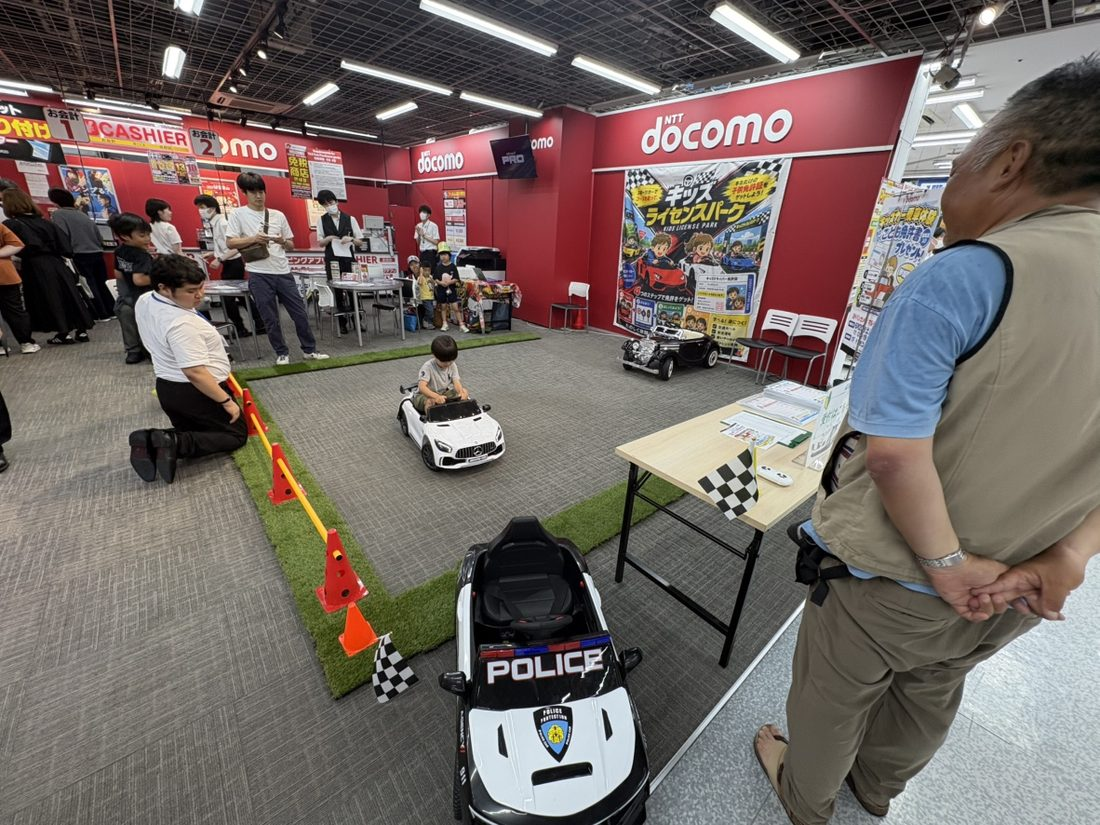
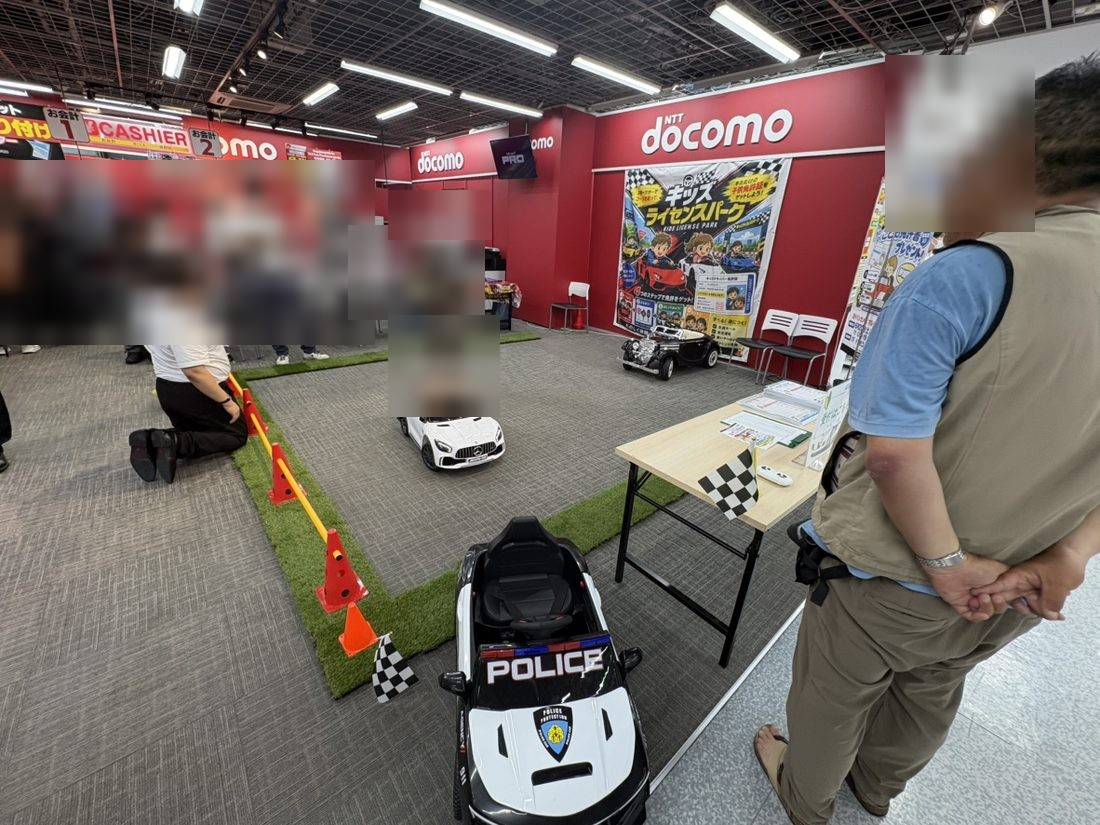
HP改修: フォント角丸統一・トップにクイックナビ・できることに写真・数字の位置調整・単体レンタル明記・開催写真の顔ぼかし
- 本文フォントをZen Maru Gothic(角丸)に統一(index/詳細ページ)
- ヒーロー下にクイックナビ(KLP/ぷにラボ/シールデコ/エア遊具)を追加
- できること3本柱に実写を追加、モバイルのヒーローを圧縮
- カウンター(5分/7車種/20分)を体験コンテンツカードの下へ移動
- 会場を広げるオプションに『単体レンタルOK』を明記
- 開催写真(klp-event1/2)の来場者・スタッフの顔をぼかし処理

Claude-Session: https://claude.ai/code/session_012CAGZHqWDYhrYngNq3AUxT

Changed region(s): [[0.0, 0.1818, 0.4636, 0.5152], [0.8036, 0.0606, 0.9582, 0.303], [0.8964, 0.2424, 0.9582, 0.303]]

diff --git a/site/index.html b/site/index.html
@@ -21,7 +21,7 @@
 <meta name="twitter:image" content="https://nextvision.fun/images/klp.jpg">
 <link rel="preconnect" href="https://fonts.googleapis.com">
 <link rel="preconnect" href="https://fonts.gstatic.com" crossorigin>
-<link href="https://fonts.googleapis.com/css2?family=Zen+Maru+Gothic:wght@500;700;900&family=Zen+Kaku+Gothic+New:wght@400;500;700&family=Baloo+2:wght@600;700;800&family=Roboto+Mono:wght@500;700&display=swap" rel="stylesheet">
+<link href="https://fonts.googleapis.com/css2?family=Zen+Maru+Gothic:wght@400;500;700;900&family=Baloo+2:wght@600;700;800&family=Roboto+Mono:wght@500;700&display=swap" rel="stylesheet">
 <style>
 :root{
   --paper:#FFFBEF; --cream:#FFF3E0; --card:#FFFFFF;
@@ -31,7 +31,7 @@
   --line:#EFE2CF; --shadow:34 87 110;
   --display:"Zen Maru Gothic","Hiragino Maru Gothic ProN","Yu Gothic",sans-serif;
   --round:"Baloo 2","Zen Maru Gothic",sans-serif;
-  --body:"Zen Kaku Gothic New","Hiragino Sans","Yu Gothic",sans-serif;
+  --body:"Zen Maru Gothic","Hiragino Maru Gothic ProN","Yu Gothic",sans-serif;
   --mono:"Roboto Mono",ui-monospace,monospace;
   --pad:clamp(18px,4.5vw,56px); --r:20px;
 }
@@ -51,7 +51,7 @@
 }
 *{box-sizing:border-box}
 html{scroll-behavior:smooth}
-body{margin:0;background:var(--paper);color:var(--ink);font-family:var(--body);
+body{margin:0;background:var(--paper);color:var(--ink);font-family:var(--body);font-weight:500;
   line-height:1.85;font-size:16px;-webkit-font-smoothing:antialiased;overflow-x:hidden}
 img,svg{max-width:100%;display:block}
 a{color:inherit}
@@ -152,6 +152,24 @@ nav.main a:hover{color:var(--blue);border-color:var(--orange)}
 .spark{position:absolute;z-index:3;animation:tw 2.4s ease-in-out infinite}
 @keyframes tw{0%,100%{transform:scale(1);opacity:.9}50%{transform:scale(.6);opacity:.4}}
 
+/* ===== hero quicknav ===== */
+.quicknav{display:flex;gap:clamp(10px,2.5vw,22px);justify-content:center;flex-wrap:wrap;
+  margin:clamp(20px,3.2vw,34px) auto 4px;position:relative;z-index:2}
+.qn{display:flex;flex-direction:column;align-items:center;gap:9px;text-decoration:none;
+  width:clamp(74px,20vw,112px);transition:transform .16s}
+.qn:hover{transform:translateY(-4px)}
+.qn img{width:clamp(66px,17vw,94px);height:clamp(66px,17vw,94px);object-fit:cover;border-radius:50%;
+  border:3px solid #fff;box-shadow:0 12px 22px -12px rgb(var(--shadow)/.55);background:var(--cream)}
+.qn span{font-family:var(--display);font-weight:700;font-size:clamp(11px,2.6vw,13px);
+  color:var(--ink);text-align:center;line-height:1.3}
+/* ===== hero mobile condense ===== */
+@media(max-width:920px){
+  .hero{padding-top:clamp(14px,4vw,26px)}
+  .mascot-stage{width:min(72%,290px)}
+  .hero .lead{font-size:14.5px;margin-top:13px}
+  .hero-cta{margin-top:20px}
+}
+
 /* ===== wave ===== */
 .wave{display:block;width:100%;height:auto;margin-bottom:-2px}
 .wave.flip{transform:scaleY(-1);margin-top:-2px;margin-bottom:0}
@@ -181,11 +199,16 @@ h2{font-size:clamp(24px,3.4vw,36px)}
 /* ===== pillars ===== */
 .pillars{display:grid;grid-template-columns:repeat(3,1fr);gap:18px}
 @media(max-width:820px){.pillars{grid-template-columns:1fr}}
-.pillar{background:var(--card);border:2px solid var(--line);border-radius:var(--r);padding:26px 24px;text-align:center;
+.pillar{background:var(--card);border:2px solid var(--line);border-radius:var(--r);text-align:center;overflow:hidden;
   transition:transform .2s,box-shadow .2s}
 .pillar:hover{transform:translateY(-5px);box-shadow:0 20px 34px -22px rgb(var(--shadow)/.5)}
-.pillar .badge{width:64px;height:64px;border-radius:20px;display:grid;place-items:center;margin:0 auto 15px;color:#fff}
-.pillar .badge svg{width:34px;height:34px}
+.pillar-photo{position:relative}
+.pillar-photo img{width:100%;aspect-ratio:16/10;object-fit:cover;display:block;background:var(--cream)}
+.pillar .badge{width:56px;height:56px;border-radius:18px;display:grid;place-items:center;color:#fff;
+  position:absolute;left:50%;bottom:-28px;transform:translateX(-50%);border:3px solid var(--card);
+  box-shadow:0 10px 20px -10px rgb(var(--shadow)/.5)}
+.pillar .badge svg{width:30px;height:30px}
+.pillar-body{padding:40px 24px 26px}
 .pillar h3{font-size:19px;margin-bottom:9px}
 .pillar p{font-size:14px;color:var(--ink-soft)}
 .pillar .no{font-family:var(--round);font-size:12px;color:var(--sub)}
@@ -459,6 +482,12 @@ footer{background:var(--navy);color:rgb(255 255 255 / .7);padding:34px 0 30px;fo
       </div>
     </div>
   </div>
+  <div class="wrap"><nav class="quicknav" aria-label="コンテンツへのショートカット">
+    <a href="#contents" class="qn"><img src="images/klp.jpg" alt=""><span>キッズ<br>ライセンスパーク</span></a>
+    <a href="#contents" class="qn"><img src="images/squeeze.jpg" alt=""><span>ぷにラボ</span></a>
+    <a href="#contents" class="qn"><img src="images/seal.jpg" alt=""><span>シールデコ</span></a>
+    <a href="#options" class="qn"><img src="images/airizm.jpg" alt=""><span>エア遊具</span></a>
+  </nav></div>
   <svg class="wave" viewBox="0 0 1440 70" preserveAspectRatio="none" aria-hidden="true"><path fill="var(--cream)" d="M0,40 C240,75 480,75 720,45 C960,15 1200,15 1440,45 L1440,70 L0,70 Z"/></svg>
 </div>
 
@@ -472,19 +501,19 @@ footer{background:var(--navy);color:rgb(255 255 255 / .7);padding:34px 0 30px;fo
     </div>
     <div class="pillars">
       <div class="pillar reveal">
-        <div class="badge" style="background:var(--blue)"><svg viewBox="0 0 24 24" fill="none" stroke="#fff" stroke-width="2" stroke-linecap="round" stroke-linejoin="round"><path d="M12 19l7-7 3 3-7 7-3-3z"/><path d="M18 13l-1.5-7.5L2 2l3.5 14.5L13 18z"/><path d="M2 2l7.586 7.586"/><circle cx="11" cy="11" r="2"/></svg></div>
-        <div class="no">01</div><h3>工作ワークショップ</h3>
-        <p>ぷにラボ（スクイーズ）・シールデコなど、手を動かして「できた！」を持ち帰れる制作体験。省スペースで着座、待ち時間対策にも。</p>
+        <div class="pillar-photo"><img src="images/squeeze.jpg" alt="工作ワークショップの様子" loading="lazy"><span class="badge" style="background:var(--blue)"><svg viewBox="0 0 24 24" fill="none" stroke="#fff" stroke-width="2" stroke-linecap="round" stroke-linejoin="round"><path d="M12 19l7-7 3 3-7 7-3-3z"/><path d="M18 13l-1.5-7.5L2 2l3.5 14.5L13 18z"/><path d="M2 2l7.586 7.586"/><circle cx="11" cy="11" r="2"/></svg></span></div>
+        <div class="pillar-body"><div class="no">01</div><h3>工作ワークショップ</h3>
+        <p>ぷにラボ（スクイーズ）・シールデコなど、手を動かして「できた！」を持ち帰れる制作体験。省スペースで着座、待ち時間対策にも。</p></div>
       </div>
       <div class="pillar reveal">
-        <div class="badge" style="background:var(--orange)"><svg viewBox="0 0 24 24" fill="none" stroke="#fff" stroke-width="2" stroke-linecap="round" stroke-linejoin="round"><path d="M5 17h14M5 17a2 2 0 0 1-2-2v-3l2-5a2 2 0 0 1 2-1.4h8A2 2 0 0 1 19 7l2 5v3a2 2 0 0 1-2 2"/><circle cx="7.5" cy="17.5" r="1.6"/><circle cx="16.5" cy="17.5" r="1.6"/></svg></div>
-        <div class="no">02</div><h3>キッズライセンスパーク</h3>
-        <p>EVカーの運転体験＋顔写真入りの「こども免許証」をその場で発行。写真が撮れて持ち帰れる、来店の動機になる看板コンテンツ。</p>
+        <div class="pillar-photo"><img src="images/klp.jpg" alt="キッズライセンスパークの様子" loading="lazy"><span class="badge" style="background:var(--orange)"><svg viewBox="0 0 24 24" fill="none" stroke="#fff" stroke-width="2" stroke-linecap="round" stroke-linejoin="round"><path d="M5 17h14M5 17a2 2 0 0 1-2-2v-3l2-5a2 2 0 0 1 2-1.4h8A2 2 0 0 1 19 7l2 5v3a2 2 0 0 1-2 2"/><circle cx="7.5" cy="17.5" r="1.6"/><circle cx="16.5" cy="17.5" r="1.6"/></svg></span></div>
+        <div class="pillar-body"><div class="no">02</div><h3>キッズライセンスパーク</h3>
+        <p>EVカーの運転体験＋顔写真入りの「こども免許証」をその場で発行。写真が撮れて持ち帰れる、来店の動機になる看板コンテンツ。</p></div>
       </div>
       <div class="pillar reveal">
-        <div class="badge" style="background:var(--coral)"><svg viewBox="0 0 24 24" fill="none" stroke="#fff" stroke-width="2" stroke-linecap="round" stroke-linejoin="round"><path d="M16 11a4 4 0 1 0-8 0"/><circle cx="12" cy="7" r="0"/><path d="M3 21v-1a5 5 0 0 1 5-5h8a5 5 0 0 1 5 5v1"/><circle cx="12" cy="6" r="3"/></svg></div>
-        <div class="no">03</div><h3>設営〜運営代行</h3>
-        <p>設営・装飾から受付・安全管理・撤収・原状回復まで。店舗スタッフ様は接客・商談に専念。機材レンタルだけでも対応します。</p>
+        <div class="pillar-photo"><img src="images/klp-event1.jpg" alt="設営・運営代行の様子" loading="lazy"><span class="badge" style="background:var(--coral)"><svg viewBox="0 0 24 24" fill="none" stroke="#fff" stroke-width="2" stroke-linecap="round" stroke-linejoin="round"><path d="M16 11a4 4 0 1 0-8 0"/><circle cx="12" cy="7" r="0"/><path d="M3 21v-1a5 5 0 0 1 5-5h8a5 5 0 0 1 5 5v1"/><circle cx="12" cy="6" r="3"/></svg></span></div>
+        <div class="pillar-body"><div class="no">03</div><h3>設営〜運営代行</h3>
+        <p>設営・装飾から受付・安全管理・撤収・原状回復まで。店舗スタッフ様は接客・商談に専念。機材レンタルだけでも対応します。</p></div>
       </div>
     </div>
   </div>
@@ -493,11 +522,6 @@ footer{background:var(--navy);color:rgb(255 255 255 / .7);padding:34px 0 30px;fo
 <!-- ===== 主役の体験コンテンツ ===== -->
 <section id="contents">
   <div class="wrap">
-    <div class="counters reveal">
-      <div class="cnt"><b><span class="num" data-to="5">0</span><small>分で</small></b><span>こども免許証を<strong>その場で発行・お渡し</strong></span></div>
-      <div class="cnt"><b><span class="num" data-to="7">0</span><small>車種</small></b><span>本格<strong>EVカー</strong>で、憧れの運転体験</span></div>
-      <div class="cnt"><b><span class="num" data-to="20">0</span><small>分</small></b><span>着座ワークショップで<strong>商談タイム</strong>を確保</span></div>
-    </div>
     <div class="sec-head reveal">
       <span class="kick">CONTENTS</span>
       <h2>主役の体験コンテンツ</h2>
@@ -537,6 +561,11 @@ footer{background:var(--navy);color:rgb(255 255 255 / .7);padding:34px 0 30px;fo
           <a class="more" href="seal.html">詳しく見る <span aria-hidden="true">→</span></a>
         </div>
       </article>
+    </div>
+    <div class="counters reveal" style="margin-top:clamp(30px,4.5vw,48px)">
+      <div class="cnt"><b><span class="num" data-to="5">0</span><small>分で</small></b><span>こども免許証を<strong>その場で発行・お渡し</strong></span></div>
+      <div class="cnt"><b><span class="num" data-to="7">0</span><small>車種</small></b><span>本格<strong>EVカー</strong>で、憧れの運転体験</span></div>
+      <div class="cnt"><b><span class="num" data-to="20">0</span><small>分</small></b><span>着座ワークショップで<strong>商談タイム</strong>を確保</span></div>
     </div>
   </div>
 </section>
@@ -658,7 +687,7 @@ footer{background:var(--navy);color:rgb(255 255 255 / .7);padding:34px 0 30px;fo
     <div class="sec-head reveal">
       <span class="kick">OPTION</span>
       <h2>会場を広げるオプション</h2>
-      <p>主役の体験コンテンツに、エア遊具・ゲームをプラス。会場の空きスペースを、そのまま賑わいに変えられます。</p>
+      <p>主役の体験コンテンツにプラスするのはもちろん、<b style="color:var(--coral)">エア遊具・ゲームだけの単体レンタルもOK</b>。会場の空きスペースを、そのまま賑わいに変えられます。</p>
     </div>
     <div class="opt-grid reveal">
       <div class="opt"><div class="othumb"><img src="images/airizm-tramp.jpg" alt="エアリズム トランポリン" loading="lazy"></div><div class="ob"><h4>エアリズム トランポリン</h4><span class="op">¥80,000<span class="os">／日</span></span></div></div>
@@ -670,6 +699,8 @@ footer{background:var(--navy);color:rgb(255 255 255 / .7);padding:34px 0 30px;fo
       <div class="opt"><div class="othumb"><img src="images/placeholder-game.svg" alt="ウエスタンフープ" loading="lazy"></div><div class="ob"><h4>ウエスタンフープ</h4><span class="op">お見積り</span></div></div>
       <div class="opt"><div class="othumb"><img src="images/placeholder-game.svg" alt="チックタックトゥ" loading="lazy"></div><div class="ob"><h4>チックタックトゥ</h4><span class="op">お見積り</span></div></div>
     </div>
+    <div class="callout reveal" style="margin-top:20px"><svg viewBox="0 0 24 24" fill="none" stroke="currentColor" stroke-width="2" stroke-linecap="round" stroke-linejoin="round"><path d="M20 7h-3V5a2 2 0 0 0-2-2H9a2 2 0 0 0-2 2v2H4a1 1 0 0 0-1 1v11a2 2 0 0 0 2 2h14a2 2 0 0 0 2-2V8a1 1 0 0 0-1-1z"/><path d="M9 7V5h6v2"/></svg>
+      <div><b>単体レンタルもOK。</b>体験コンテンツとのセットはもちろん、<b>エア遊具・ゲームだけ</b>のレンタルにも対応します。会場の広さやご予算に合わせてお選びください。</div></div>
   </div>
 </section>
 

diff --git a/site/seal.html b/site/seal.html
@@ -1,4 +1,4 @@
-<!DOCTYPE html><html lang="ja"><head><meta charset="UTF-8"><meta name="viewport" content="width=device-width, initial-scale=1"><title>シールデコ ワークショップ｜シャカシャカシール｜NextVision</title><meta name="description" content="振ると中が揺れる『シャカシャカシール』を制作するワークショップ。はさみ不要で小さなお子様も安心。省スペース・着座20分で集客イベントに。"><meta name="theme-color" content="#3E9BD8"><link rel="canonical" href="https://nextvision.fun/seal.html"><link rel="preconnect" href="https://fonts.googleapis.com"><link rel="preconnect" href="https://fonts.gstatic.com" crossorigin><link href="https://fonts.googleapis.com/css2?family=Zen+Maru+Gothic:wght@500;700;900&family=Zen+Kaku+Gothic+New:wght@400;500;700&family=Baloo+2:wght@600;700;800&family=Roboto+Mono:wght@500;700&display=swap" rel="stylesheet"><style>
+<!DOCTYPE html><html lang="ja"><head><meta charset="UTF-8"><meta name="viewport" content="width=device-width, initial-scale=1"><title>シールデコ ワークショップ｜シャカシャカシール｜NextVision</title><meta name="description" content="振ると中が揺れる『シャカシャカシール』を制作するワークショップ。はさみ不要で小さなお子様も安心。省スペース・着座20分で集客イベントに。"><meta name="theme-color" content="#3E9BD8"><link rel="canonical" href="https://nextvision.fun/seal.html"><link rel="preconnect" href="https://fonts.googleapis.com"><link rel="preconnect" href="https://fonts.gstatic.com" crossorigin><link href="https://fonts.googleapis.com/css2?family=Zen+Maru+Gothic:wght@400;500;700;900&family=Baloo+2:wght@600;700;800&family=Roboto+Mono:wght@500;700&display=swap" rel="stylesheet"><style>
 :root{
   --paper:#FFFBEF; --cream:#FFF3E0; --card:#FFFFFF;
   --ink:#22384F; --ink-soft:#4E6274; --sub:#7E8A96;
@@ -7,7 +7,7 @@
   --line:#EFE2CF; --shadow:34 87 110;
   --display:"Zen Maru Gothic","Hiragino Maru Gothic ProN","Yu Gothic",sans-serif;
   --round:"Baloo 2","Zen Maru Gothic",sans-serif;
-  --body:"Zen Kaku Gothic New","Hiragino Sans","Yu Gothic",sans-serif;
+  --body:"Zen Maru Gothic","Hiragino Maru Gothic ProN","Yu Gothic",sans-serif;
   --mono:"Roboto Mono",ui-monospace,monospace;
   --pad:clamp(18px,4.5vw,56px); --r:20px;
 }
@@ -27,7 +27,7 @@
 }
 *{box-sizing:border-box}
 html{scroll-behavior:smooth}
-body{margin:0;background:var(--paper);color:var(--ink);font-family:var(--body);
+body{margin:0;background:var(--paper);color:var(--ink);font-family:var(--body);font-weight:500;
   line-height:1.85;font-size:16px;-webkit-font-smoothing:antialiased;overflow-x:hidden}
 img,svg{max-width:100%;display:block}
 a{color:inherit}
@@ -128,6 +128,24 @@ nav.main a:hover{color:var(--blue);border-color:var(--orange)}
 .spark{position:absolute;z-index:3;animation:tw 2.4s ease-in-out infinite}
 @keyframes tw{0%,100%{transform:scale(1);opacity:.9}50%{transform:scale(.6);opacity:.4}}
 
+/* ===== hero quicknav ===== */
+.quicknav{display:flex;gap:clamp(10px,2.5vw,22px);justify-content:center;flex-wrap:wrap;
+  margin:clamp(20px,3.2vw,34px) auto 4px;position:relative;z-index:2}
+.qn{display:flex;flex-direction:column;align-items:center;gap:9px;text-decoration:none;
+  width:clamp(74px,20vw,112px);transition:transform .16s}
+.qn:hover{transform:translateY(-4px)}
+.qn img{width:clamp(66px,17vw,94px);height:clamp(66px,17vw,94px);object-fit:cover;border-radius:50%;
+  border:3px solid #fff;box-shadow:0 12px 22px -12px rgb(var(--shadow)/.55);background:var(--cream)}
+.qn span{font-family:var(--display);font-weight:700;font-size:clamp(11px,2.6vw,13px);
+  color:var(--ink);text-align:center;line-height:1.3}
+/* ===== hero mobile condense ===== */
+@media(max-width:920px){
+  .hero{padding-top:clamp(14px,4vw,26px)}
+  .mascot-stage{width:min(72%,290px)}
+  .hero .lead{font-size:14.5px;margin-top:13px}
+  .hero-cta{margin-top:20px}
+}
+
 /* ===== wave ===== */
 .wave{display:block;width:100%;height:auto;margin-bottom:-2px}
 .wave.flip{transform:scaleY(-1);margin-top:-2px;margin-bottom:0}
@@ -157,11 +175,16 @@ h2{font-size:clamp(24px,3.4vw,36px)}
 /* ===== pillars ===== */
 .pillars{display:grid;grid-template-columns:repeat(3,1fr);gap:18px}
 @media(max-width:820px){.pillars{grid-template-columns:1fr}}
-.pillar{background:var(--card);border:2px solid var(--line);border-radius:var(--r);padding:26px 24px;text-align:center;
+.pillar{background:var(--card);border:2px solid var(--line);border-radius:var(--r);text-align:center;overflow:hidden;
   transition:transform .2s,box-shadow .2s}
 .pillar:hover{transform:translateY(-5px);box-shadow:0 20px 34px -22px rgb(var(--shadow)/.5)}
-.pillar .badge{width:64px;height:64px;border-radius:20px;display:grid;place-items:center;margin:0 auto 15px;color:#fff}
-.pillar .badge svg{width:34px;height:34px}
+.pillar-photo{position:relative}
+.pillar-photo img{width:100%;aspect-ratio:16/10;object-fit:cover;display:block;background:var(--cream)}
+.pillar .badge{width:56px;height:56px;border-radius:18px;display:grid;place-items:center;color:#fff;
+  position:absolute;left:50%;bottom:-28px;transform:translateX(-50%);border:3px solid var(--card);
+  box-shadow:0 10px 20px -10px rgb(var(--shadow)/.5)}
+.pillar .badge svg{width:30px;height:30px}
+.pillar-body{padding:40px 24px 26px}
 .pillar h3{font-size:19px;margin-bottom:9px}
 .pillar p{font-size:14px;color:var(--ink-soft)}
 .pillar .no{font-family:var(--round);font-size:12px;color:var(--sub)}

diff --git a/site/punilab.html b/site/punilab.html
@@ -1,4 +1,4 @@
-<!DOCTYPE html><html lang="ja"><head><meta charset="UTF-8"><meta name="viewport" content="width=device-width, initial-scale=1"><title>ぷにラボ｜スクイーズ工作ワークショップ｜NextVision</title><meta name="description" content="動物モールド（とら・ぞう・ペンギン）でぷにぷにスクイーズを制作。型のまま持ち帰り、おうちで完成。省スペース・着座20分で集客イベントに。"><meta name="theme-color" content="#3E9BD8"><link rel="canonical" href="https://nextvision.fun/punilab.html"><link rel="preconnect" href="https://fonts.googleapis.com"><link rel="preconnect" href="https://fonts.gstatic.com" crossorigin><link href="https://fonts.googleapis.com/css2?family=Zen+Maru+Gothic:wght@500;700;900&family=Zen+Kaku+Gothic+New:wght@400;500;700&family=Baloo+2:wght@600;700;800&family=Roboto+Mono:wght@500;700&display=swap" rel="stylesheet"><style>
+<!DOCTYPE html><html lang="ja"><head><meta charset="UTF-8"><meta name="viewport" content="width=device-width, initial-scale=1"><title>ぷにラボ｜スクイーズ工作ワークショップ｜NextVision</title><meta name="description" content="動物モールド（とら・ぞう・ペンギン）でぷにぷにスクイーズを制作。型のまま持ち帰り、おうちで完成。省スペース・着座20分で集客イベントに。"><meta name="theme-color" content="#3E9BD8"><link rel="canonical" href="https://nextvision.fun/punilab.html"><link rel="preconnect" href="https://fonts.googleapis.com"><link rel="preconnect" href="https://fonts.gstatic.com" crossorigin><link href="https://fonts.googleapis.com/css2?family=Zen+Maru+Gothic:wght@400;500;700;900&family=Baloo+2:wght@600;700;800&family=Roboto+Mono:wght@500;700&display=swap" rel="stylesheet"><style>
 :root{
   --paper:#FFFBEF; --cream:#FFF3E0; --card:#FFFFFF;
   --ink:#22384F; --ink-soft:#4E6274; --sub:#7E8A96;
@@ -7,7 +7,7 @@
   --line:#EFE2CF; --shadow:34 87 110;
   --display:"Zen Maru Gothic","Hiragino Maru Gothic ProN","Yu Gothic",sans-serif;
   --round:"Baloo 2","Zen Maru Gothic",sans-serif;
-  --body:"Zen Kaku Gothic New","Hiragino Sans","Yu Gothic",sans-serif;
+  --body:"Zen Maru Gothic","Hiragino Maru Gothic ProN","Yu Gothic",sans-serif;
   --mono:"Roboto Mono",ui-monospace,monospace;
   --pad:clamp(18px,4.5vw,56px); --r:20px;
 }
@@ -27,7 +27,7 @@
 }
 *{box-sizing:border-box}
 html{scroll-behavior:smooth}
-body{margin:0;background:var(--paper);color:var(--ink);font-family:var(--body);
+body{margin:0;background:var(--paper);color:var(--ink);font-family:var(--body);font-weight:500;
   line-height:1.85;font-size:16px;-webkit-font-smoothing:antialiased;overflow-x:hidden}
 img,svg{max-width:100%;display:block}
 a{color:inherit}
@@ -128,6 +128,24 @@ nav.main a:hover{color:var(--blue);border-color:var(--orange)}
 .spark{position:absolute;z-index:3;animation:tw 2.4s ease-in-out infinite}
 @keyframes tw{0%,100%{transform:scale(1);opacity:.9}50%{transform:scale(.6);opacity:.4}}
 
+/* ===== hero quicknav ===== */
+.quicknav{display:flex;gap:clamp(10px,2.5vw,22px);justify-content:center;flex-wrap:wrap;
+  margin:clamp(20px,3.2vw,34px) auto 4px;position:relative;z-index:2}
+.qn{display:flex;flex-direction:column;align-items:center;gap:9px;text-decoration:none;
+  width:clamp(74px,20vw,112px);transition:transform .16s}
+.qn:hover{transform:translateY(-4px)}
+.qn img{width:clamp(66px,17vw,94px);height:clamp(66px,17vw,94px);object-fit:cover;border-radius:50%;
+  border:3px solid #fff;box-shadow:0 12px 22px -12px rgb(var(--shadow)/.55);background:var(--cream)}
+.qn span{font-family:var(--display);font-weight:700;font-size:clamp(11px,2.6vw,13px);
+  color:var(--ink);text-align:center;line-height:1.3}
+/* ===== hero mobile condense ===== */
+@media(max-width:920px){
+  .hero{padding-top:clamp(14px,4vw,26px)}
+  .mascot-stage{width:min(72%,290px)}
+  .hero .lead{font-size:14.5px;margin-top:13px}
+  .hero-cta{margin-top:20px}
+}
+
 /* ===== wave ===== */
 .wave{display:block;width:100%;height:auto;margin-bottom:-2px}
 .wave.flip{transform:scaleY(-1);margin-top:-2px;margin-bottom:0}
@@ -157,11 +175,16 @@ h2{font-size:clamp(24px,3.4vw,36px)}
 /* ===== pillars ===== */
 .pillars{display:grid;grid-template-columns:repeat(3,1fr);gap:18px}
 @media(max-width:820px){.pillars{grid-template-columns:1fr}}
-.pillar{background:var(--card);border:2px solid var(--line);border-radius:var(--r);padding:26px 24px;text-align:center;
+.pillar{background:var(--card);border:2px solid var(--line);border-radius:var(--r);text-align:center;overflow:hidden;
   transition:transform .2s,box-shadow .2s}
 .pillar:hover{transform:translateY(-5px);box-shadow:0 20px 34px -22px rgb(var(--shadow)/.5)}
-.pillar .badge{width:64px;height:64px;border-radius:20px;display:grid;place-items:center;margin:0 auto 15px;color:#fff}
-.pillar .badge svg{width:34px;height:34px}
+.pillar-photo{position:relative}
+.pillar-photo img{width:100%;aspect-ratio:16/10;object-fit:cover;display:block;background:var(--cream)}
+.pillar .badge{width:56px;height:56px;border-radius:18px;display:grid;place-items:center;color:#fff;
+  position:absolute;left:50%;bottom:-28px;transform:translateX(-50%);border:3px solid var(--card);
+  box-shadow:0 10px 20px -10px rgb(var(--shadow)/.5)}
+.pillar .badge svg{width:30px;height:30px}
+.pillar-body{padding:40px 24px 26px}
 .pillar h3{font-size:19px;margin-bottom:9px}
 .pillar p{font-size:14px;color:var(--ink-soft)}
 .pillar .no{font-family:var(--round);font-size:12px;color:var(--sub)}

diff --git a/site/klp.html b/site/klp.html
@@ -1,4 +1,4 @@
-<!DOCTYPE html><html lang="ja"><head><meta charset="UTF-8"><meta name="viewport" content="width=device-width, initial-scale=1"><title>キッズライセンスパーク｜こども免許証がもらえる運転体験｜NextVision</title><meta name="description" content="EVカーの運転体験と、顔写真入り『こども免許証』をその場で発行。商業施設・店舗の集客イベントに。設営〜運営代行まで対応。"><meta name="theme-color" content="#3E9BD8"><link rel="canonical" href="https://nextvision.fun/klp.html"><link rel="preconnect" href="https://fonts.googleapis.com"><link rel="preconnect" href="https://fonts.gstatic.com" crossorigin><link href="https://fonts.googleapis.com/css2?family=Zen+Maru+Gothic:wght@500;700;900&family=Zen+Kaku+Gothic+New:wght@400;500;700&family=Baloo+2:wght@600;700;800&family=Roboto+Mono:wght@500;700&display=swap" rel="stylesheet"><style>
+<!DOCTYPE html><html lang="ja"><head><meta charset="UTF-8"><meta name="viewport" content="width=device-width, initial-scale=1"><title>キッズライセンスパーク｜こども免許証がもらえる運転体験｜NextVision</title><meta name="description" content="EVカーの運転体験と、顔写真入り『こども免許証』をその場で発行。商業施設・店舗の集客イベントに。設営〜運営代行まで対応。"><meta name="theme-color" content="#3E9BD8"><link rel="canonical" href="https://nextvision.fun/klp.html"><link rel="preconnect" href="https://fonts.googleapis.com"><link rel="preconnect" href="https://fonts.gstatic.com" crossorigin><link href="https://fonts.googleapis.com/css2?family=Zen+Maru+Gothic:wght@400;500;700;900&family=Baloo+2:wght@600;700;800&family=Roboto+Mono:wght@500;700&display=swap" rel="stylesheet"><style>
 :root{
   --paper:#FFFBEF; --cream:#FFF3E0; --card:#FFFFFF;
   --ink:#22384F; --ink-soft:#4E6274; --sub:#7E8A96;
@@ -7,7 +7,7 @@
   --line:#EFE2CF; --shadow:34 87 110;
   --display:"Zen Maru Gothic","Hiragino Maru Gothic ProN","Yu Gothic",sans-serif;
   --round:"Baloo 2","Zen Maru Gothic",sans-serif;
-  --body:"Zen Kaku Gothic New","Hiragino Sans","Yu Gothic",sans-serif;
+  --body:"Zen Maru Gothic","Hiragino Maru Gothic ProN","Yu Gothic",sans-serif;
   --mono:"Roboto Mono",ui-monospace,monospace;
   --pad:clamp(18px,4.5vw,56px); --r:20px;
 }
@@ -27,7 +27,7 @@
 }
 *{box-sizing:border-box}
 html{scroll-behavior:smooth}
-body{margin:0;background:var(--paper);color:var(--ink);font-family:var(--body);
+body{margin:0;background:var(--paper);color:var(--ink);font-family:var(--body);font-weight:500;
   line-height:1.85;font-size:16px;-webkit-font-smoothing:antialiased;overflow-x:hidden}
 img,svg{max-width:100%;display:block}
 a{color:inherit}
@@ -128,6 +128,24 @@ nav.main a:hover{color:var(--blue);border-color:var(--orange)}
 .spark{position:absolute;z-index:3;animation:tw 2.4s ease-in-out infinite}
 @keyframes tw{0%,100%{transform:scale(1);opacity:.9}50%{transform:scale(.6);opacity:.4}}
 
+/* ===== hero quicknav ===== */
+.quicknav{display:flex;gap:clamp(10px,2.5vw,22px);justify-content:center;flex-wrap:wrap;
+  margin:clamp(20px,3.2vw,34px) auto 4px;position:relative;z-index:2}
+.qn{display:flex;flex-direction:column;align-items:center;gap:9px;text-decoration:none;
+  width:clamp(74px,20vw,112px);transition:transform .16s}
+.qn:hover{transform:translateY(-4px)}
+.qn img{width:clamp(66px,17vw,94px);height:clamp(66px,17vw,94px);object-fit:cover;border-radius:50%;
+  border:3px solid #fff;box-shadow:0 12px 22px -12px rgb(var(--shadow)/.55);background:var(--cream)}
+.qn span{font-family:var(--display);font-weight:700;font-size:clamp(11px,2.6vw,13px);
+  color:var(--ink);text-align:center;line-height:1.3}
+/* ===== hero mobile condense ===== */
+@media(max-width:920px){
+  .hero{padding-top:clamp(14px,4vw,26px)}
+  .mascot-stage{width:min(72%,290px)}
+  .hero .lead{font-size:14.5px;margin-top:13px}
+  .hero-cta{margin-top:20px}
+}
+
 /* ===== wave ===== */
 .wave{display:block;width:100%;height:auto;margin-bottom:-2px}
 .wave.flip{transform:scaleY(-1);margin-top:-2px;margin-bottom:0}
@@ -157,11 +175,16 @@ h2{font-size:clamp(24px,3.4vw,36px)}
 /* ===== pillars ===== */
 .pillars{display:grid;grid-template-columns:repeat(3,1fr);gap:18px}
 @media(max-width:820px){.pillars{grid-template-columns:1fr}}
-.pillar{background:var(--card);border:2px solid var(--line);border-radius:var(--r);padding:26px 24px;text-align:center;
+.pillar{background:var(--card);border:2px solid var(--line);border-radius:var(--r);text-align:center;overflow:hidden;
   transition:transform .2s,box-shadow .2s}
 .pillar:hover{transform:translateY(-5px);box-shadow:0 20px 34px -22px rgb(var(--shadow)/.5)}
-.pillar .badge{width:64px;height:64px;border-radius:20px;display:grid;place-items:center;margin:0 auto 15px;color:#fff}
-.pillar .badge svg{width:34px;height:34px}
+.pillar-photo{position:relative}
+.pillar-photo img{width:100%;aspect-ratio:16/10;object-fit:cover;display:block;background:var(--cream)}
+.pillar .badge{width:56px;height:56px;border-radius:18px;display:grid;place-items:center;color:#fff;
+  position:absolute;left:50%;bottom:-28px;transform:translateX(-50%);border:3px solid var(--card);
+  box-shadow:0 10px 20px -10px rgb(var(--shadow)/.5)}
+.pillar .badge svg{width:30px;height:30px}
+.pillar-body{padding:40px 24px 26px}
 .pillar h3{font-size:19px;margin-bottom:9px}
 .pillar p{font-size:14px;color:var(--ink-soft)}
 .pillar .no{font-family:var(--round);font-size:12px;color:var(--sub)}

diff --git a/site/build_details.py b/site/build_details.py
@@ -8,8 +8,8 @@ idx = open(os.path.join(HERE, "index.html"), encoding="utf-8").read()
 STYLE = re.search(r'<style>.*?</style>', idx, re.S).group(0)
 FONTS = ('<link rel="preconnect" href="https://fonts.googleapis.com">'
          '<link rel="preconnect" href="https://fonts.gstatic.com" crossorigin>'
-         '<link href="https://fonts.googleapis.com/css2?family=Zen+Maru+Gothic:wght@500;700;900'
-         '&family=Zen+Kaku+Gothic+New:wght@400;500;700&family=Baloo+2:wght@600;700;800'
+         '<link href="https://fonts.googleapis.com/css2?family=Zen+Maru+Gothic:wght@400;500;700;900'
+         '&family=Baloo+2:wght@600;700;800'
          '&family=Roboto+Mono:wght@500;700&display=swap" rel="stylesheet">')
 
 EXTRA = """
